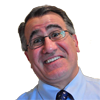
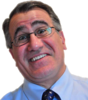
resize react images to be 100x100

diff --git a/src/components/authed/profile/ProfileScreen.tsx b/src/components/authed/profile/ProfileScreen.tsx
@@ -193,7 +193,7 @@ class ProfileScreen extends PureComponent<Props, State> {
     let toRender
     switch (react.type) {
       case 'emoji':
-        toRender = <JSText fontSize={20} style={styles.reacts}>{react.emoji}</JSText>
+        toRender = <JSText fontSize={23} style={styles.reacts}>{react.emoji}</JSText>
         break
       case 'image':
         toRender = (
@@ -447,6 +447,8 @@ const styles = StyleSheet.create({
   },
   reactColumn: {
     flex: 1,
+    height: 80,
+    justifyContent: 'space-around',
   },
   reactColumns: {
     flex: 1,

diff --git a/src/assets/img/index.ts b/src/assets/img/index.ts
@@ -1,9 +1,8 @@
 const images: { [imageName: string]: any } = { /* tslint:disable-line:no-any */
-  acornhead: require('./acornhead.jpg'),
+  acornhead: require('./acornhead.png'),
   goBos: require('./goBos.png'),
   tonymonaco: require('./tonymonaco.png'),
   jumbo2018: require('./jumbo2018.png'),
-  square: require('./square.jpg'),
 }
 
 export { images as Images }

diff --git a/src/services/profile/REACTS.ts b/src/services/profile/REACTS.ts
@@ -2,8 +2,8 @@ import { ProfileReact } from './types'
 
 const reacts: ProfileReact[] = [
   {
-    type: 'emoji',
-    emoji: '❤',
+    type: 'image',
+    imageName: 'acornhead',
     count: 10,
   },
   {
